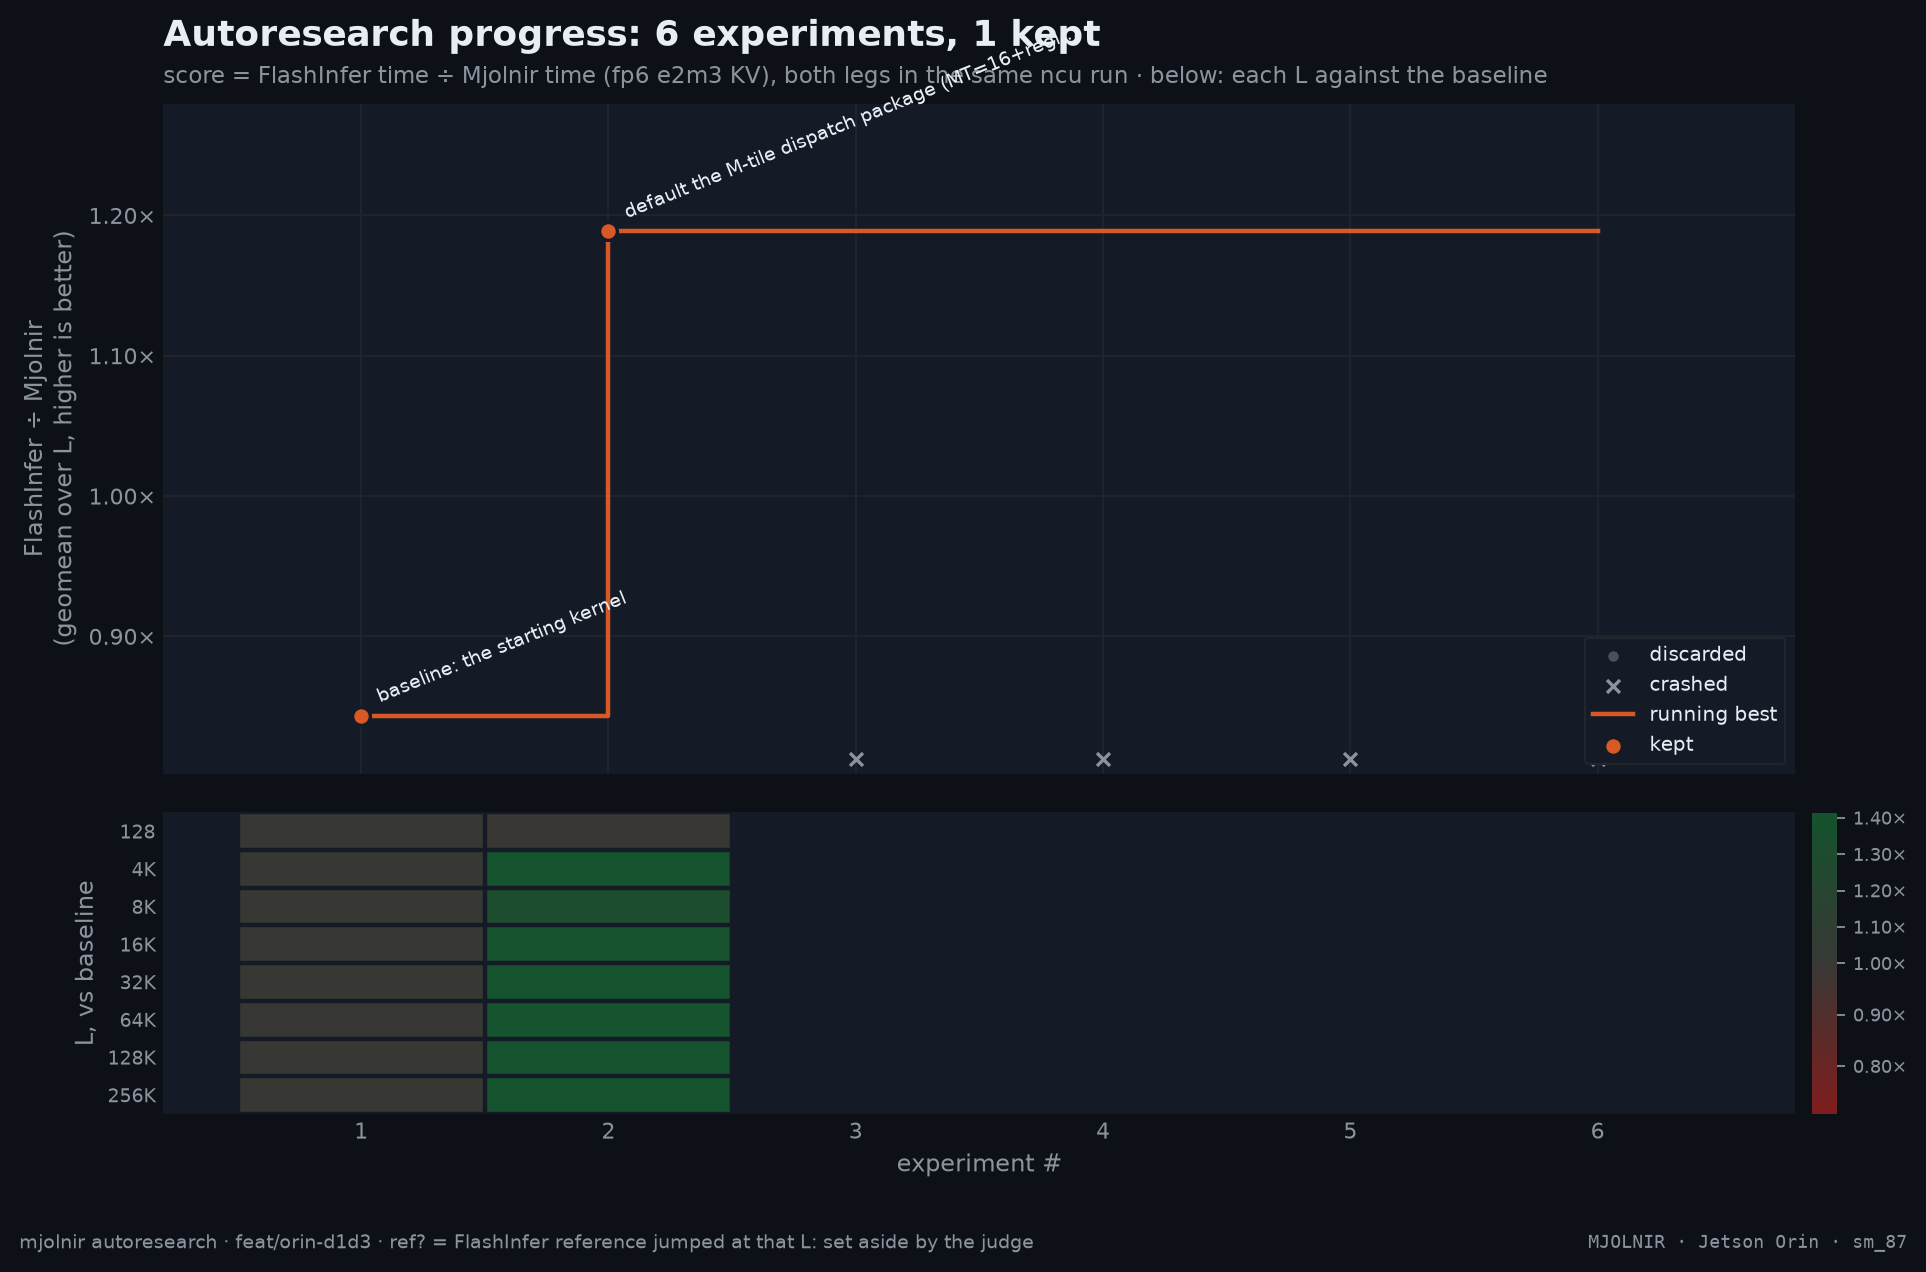
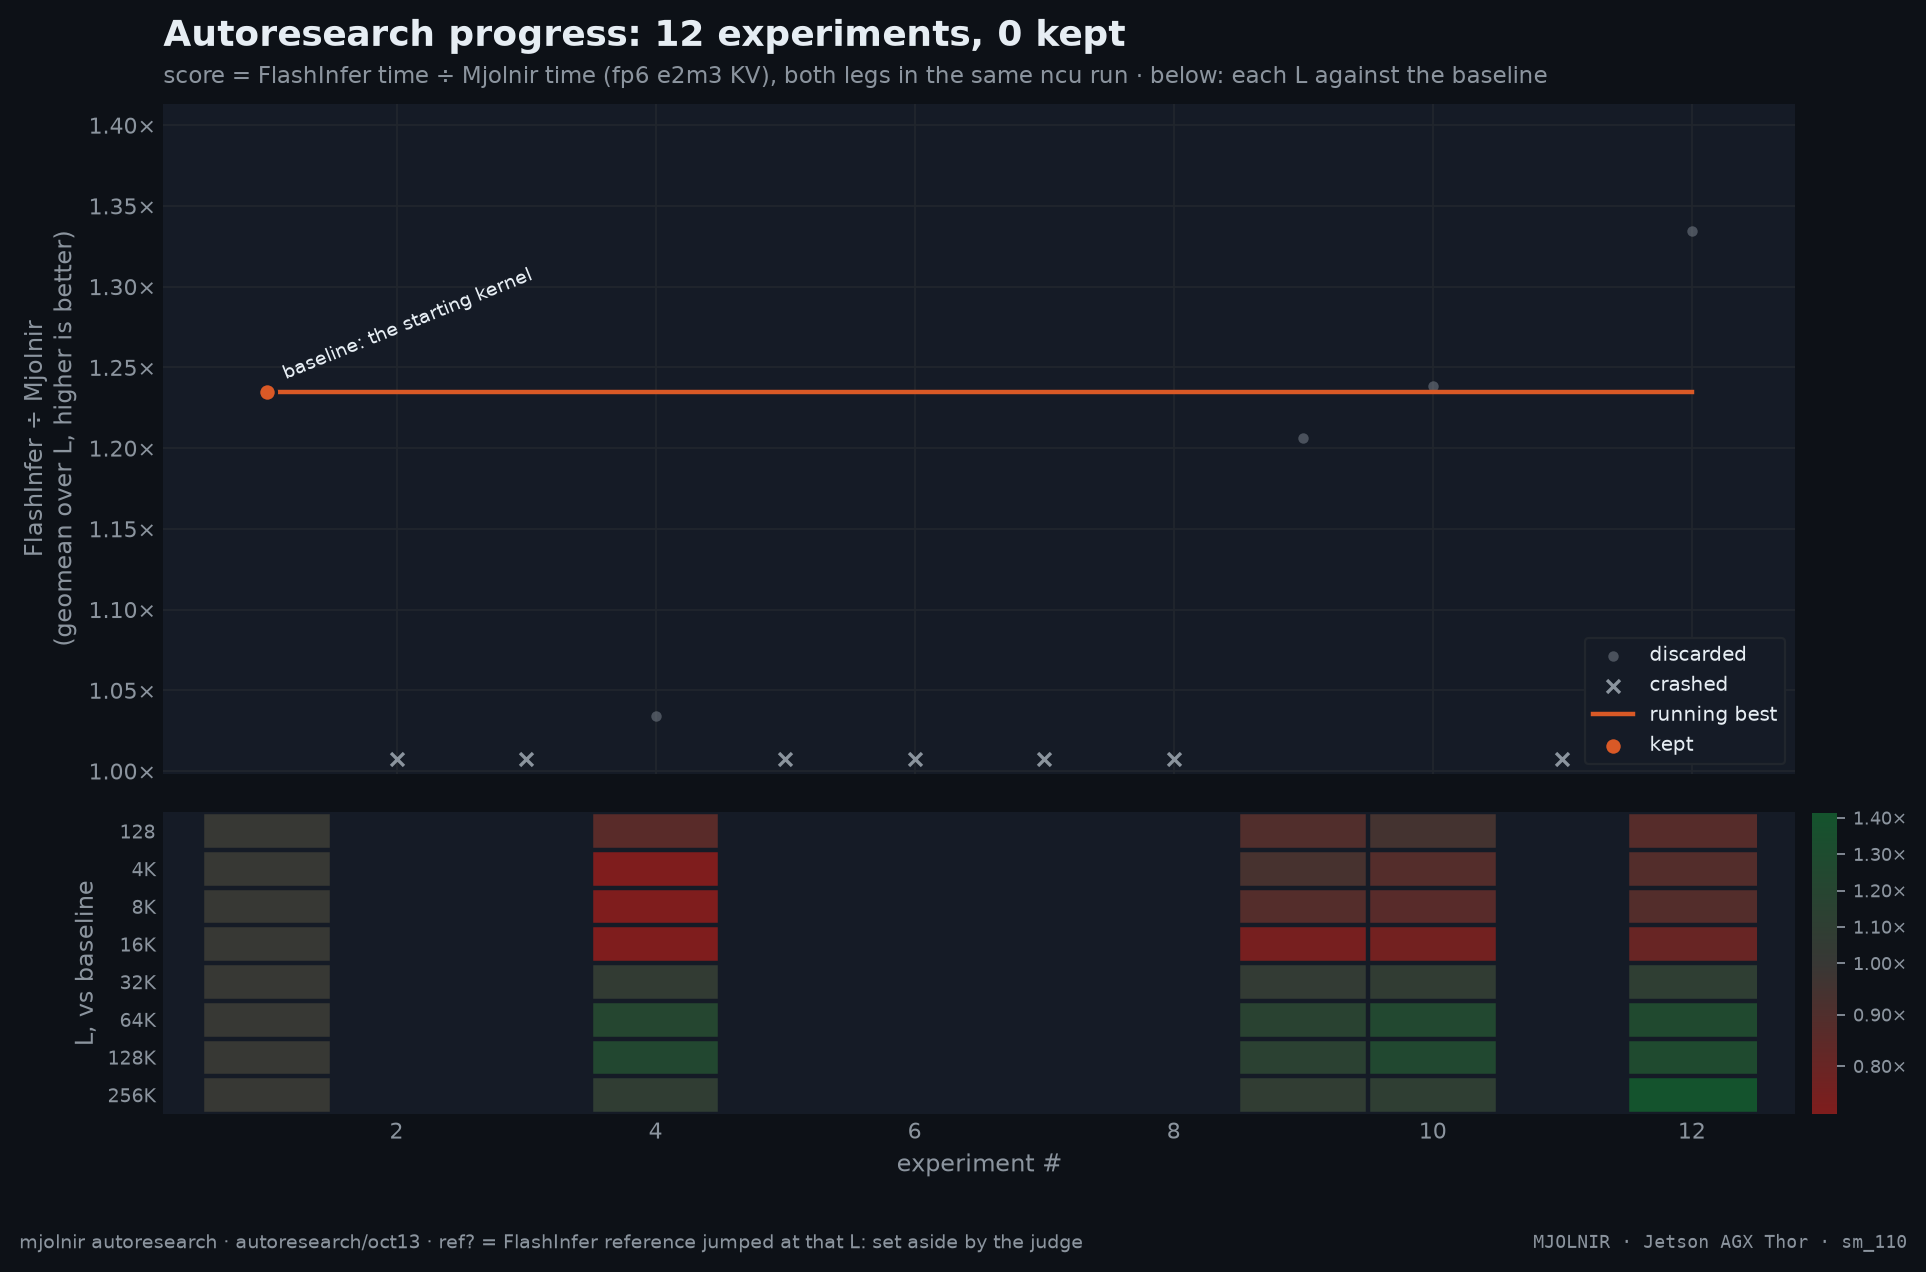
re-render: stragglers (patch README + autoresearch progress)

diff --git a/docker/vllm-thor/README.md b/docker/vllm-thor/README.md
@@ -26,7 +26,7 @@ The Mjolnir kernel takes over single-token and speculative-verify steps; prefill
 
 ## ⚡ Patches
 
-`7` hand-adapted vLLM PR fixes and `12` Thor-/FlashInfer-authored patches, applied to the installed vLLM `0.32.0` and FlashInfer at build time (the sm_110-only ones probe-gate themselves inert on other devices):
+`7` hand-adapted vLLM PR fixes and `15` Thor-/FlashInfer-authored patches, applied to the installed vLLM `0.32.0` and FlashInfer at build time (the sm_110-only ones probe-gate themselves inert on other devices):
 
 | File | PR | What it fixes |
 |------|----|---------------|
@@ -49,6 +49,9 @@ The Mjolnir kernel takes over single-token and speculative-verify steps; prefill
 | `thor-sm110-mxfp4-moe-gate.patch` | [#62133](https://github.com/vllm-project/vllm/pull/62133) | **Fix OAI Triton MXFP4 MoE on SM110** (supersedes closed #61387). #58877 (in v0.32.0) widened the OAI-Triton device gate to `< (13, 0)`, admitting SM110 → `matmul_ogs` compile failure at engine init (upstream issue #61374). The GPT-OSS MXFP4 **selector** keeps **MARLIN** the default on SM110 (TRITON opt-in) and `_swizzle_mxfp4` applies the persistent + `epilogue_subtile=1` constraints on SM110 too. Drop when upstream merges #62133 — **merged 2026-10-27 (f03b704), first release after 0.32.0: retire this patch at the next base bump** (upstream rewrote the same hunks; its Thor numbers — MARLIN 13:22 vs TRITON 18:24 eval — confirm the MARLIN default our gate chose). |
 | `thor-sm110-cutlass-fp4-moe-guard.patch` | [#62275](https://github.com/vllm-project/vllm/pull/62275) | **Disable CUTLASS FP4 MoE backend on sm_110.** NVFP4 MoE auto-select picks `VLLM_CUTLASS` on Thor and faults in `profile_run` (TMA descriptor init); sm_110 is removed from `_supports_current_device`'s family allowlist so the fallback backend is chosen. Drop when upstream merges #62275. |
 | `thor-spec-decode-split-topp.patch` | [#58231](https://github.com/vllm-project/vllm/pull/58231) | **Split top-p masks every token for huge forced logits → token 0.** `_topp_sb_mask_kernel` (the split top-p pipeline: CUDA, batches ≤ 64, rows with `top_p < 1` and no active top-k) mapped its probability-space pivot back to logit space as `log(pivot) + log(Z) + M`, which fp32 rounds to `M` when a forced logit makes `|M|` huge (thinking-token-budget writes 1e9) — the whole row masks, spec decode emits token 0 forever (≈3× throughput loss). The fix masks in probability space (`exp(x − M)/Z > pivot`, bitwise the step kernels' predicate; `x == M` kept as a backstop). Trigger needs a **huge forced logit**, not merely `top_p < 1` + spec decode. Drop when upstream merges #58231 — it is merged 2026-10-19, first release after 0.32.0. |
+| `thor-qwen4-dense-model.patch` | Thor-authored (basis: the recovered Intel `fp8_dense.cpp` — Qwen4-27B is **dense**) | **Dense-decoder support for the qwen4_exp family.** v0.32.0 builds `Qwen4ExpSparseMoeBlock` for every layer and transformers rejects `num_experts <= 0`, so no dense Qwen4 checkpoint can load. The patch mirrors qwen3_next's own hybrid rule (`mlp_only_layers` + `(layer_idx + 1) % decoder_sparse_step`): a checkpoint that lists every layer in `mlp_only_layers` gets `Qwen3NextMLP` (`Qwen2MoeMLP`) with `config.intermediate_size`. The MTP drafter goes dense through the same layer class; `Qwen4ExpMixtureOfExperts` already handles zero MoE layers. **Inert** for every existing checkpoint (none set `mlp_only_layers` on qwen4_exp). See "Thor qwen4 dense decoder" below. |
+| `thor-qwen4-topk-sm110.patch` | Thor-authored (upstream precedent: [#47266](https://github.com/vllm-project/vllm/issues/47266) Issue 8, SM120) | **sm_110 excluded from `cooperative_topk`.** Device-proven 2026-10-31: v0.32.0's sparse-indexer `auto` chain leads with `cooperative_topk`, whose thread-block-cluster launch is **rejected on Thor** (`cluster misconfiguration`, `cooperative_topk.cu:48` → `EngineDeadError` at the first decode top-k; model loads and prefills fine). The patch extends the gate's family exclusion (`120` already there) to `110` — the dispatch falls through to `persistent_topk`. Inert on every other arch. See "Thor qwen4 topk sm110" below. |
+| `thor-qwen4-qsa-mjolnir.patch` | Thor-authored (kernel: `mjolnir.qsa_impl`) | **Probe-gated Mjolnir decode for the QSA layers** (`MJOLNIR_ATTN_QSA`). Wraps the stock impl — routes pure-decode steps through the tcgen05 scratch-gather (the measured 13.5×/11.7× path) and falls back to the stock Triton kernel for prefill/verify/mixed steps, bf16 caches, or anything else it does not own. The heavy logic ships in `mjolnir-kernel` (`src/mjolnir/mjolnir/qsa_impl.py`), not in the patch. INERT without the env var. |
 
 The full inventory with the deep-dive sections: [PATCHES.md](https://github.com/GoBrrr-ai/mjolnir/blob/main/docker/vllm-thor/PATCHES.md)
 
